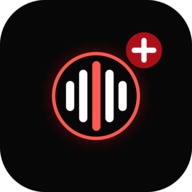
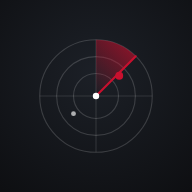
Icône d'app PWA aux couleurs RADAR (motif radar)
- assets/icon.svg : nouvelle icône (écran radar — anneaux, croix, balayage
  rouge, blip) sur tuile sombre, raccord avec l'accent #c8102e de la marque
- assets/icon-192.png / icon-512.png : régénérés en plein-cadre (opaques,
  compatibles maskable Android) à partir du SVG
- sw.js : cache radar-shell-v6 + retrait des vieux logos RÉQ inutilisés du shell

L'icône sur l'écran d'accueil reflète désormais RADAR au lieu de l'ancien RÉQ.

Claude-Session: https://claude.ai/code/session_01DDJSbWFhmYspsYBdyTxfNW

diff --git a/sw.js b/sw.js
@@ -1,4 +1,4 @@
-const CACHE_NAME = "radar-shell-v5";
+const CACHE_NAME = "radar-shell-v6";
 const APP_SHELL = [
   "./",
   "./index.html",
@@ -9,8 +9,6 @@ const APP_SHELL = [
   "./assets/icon.svg",
   "./assets/icon-192.png",
   "./assets/icon-512.png",
-  "./assets/logos/req-icon.jpg",
-  "./assets/logos/req-logo.jpg",
 ];
 
 self.addEventListener("install", (event) => {